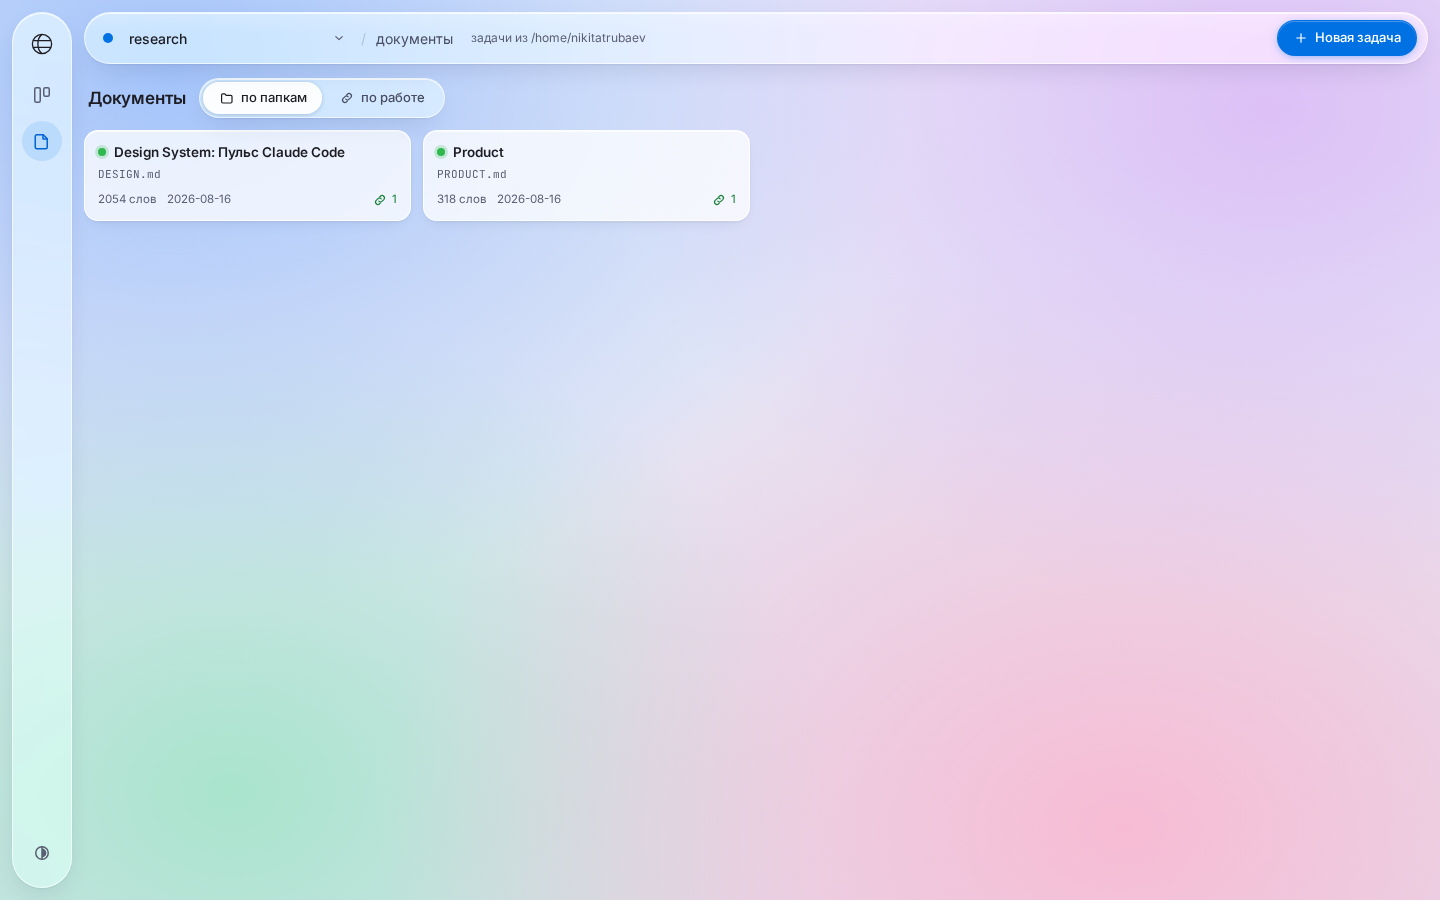
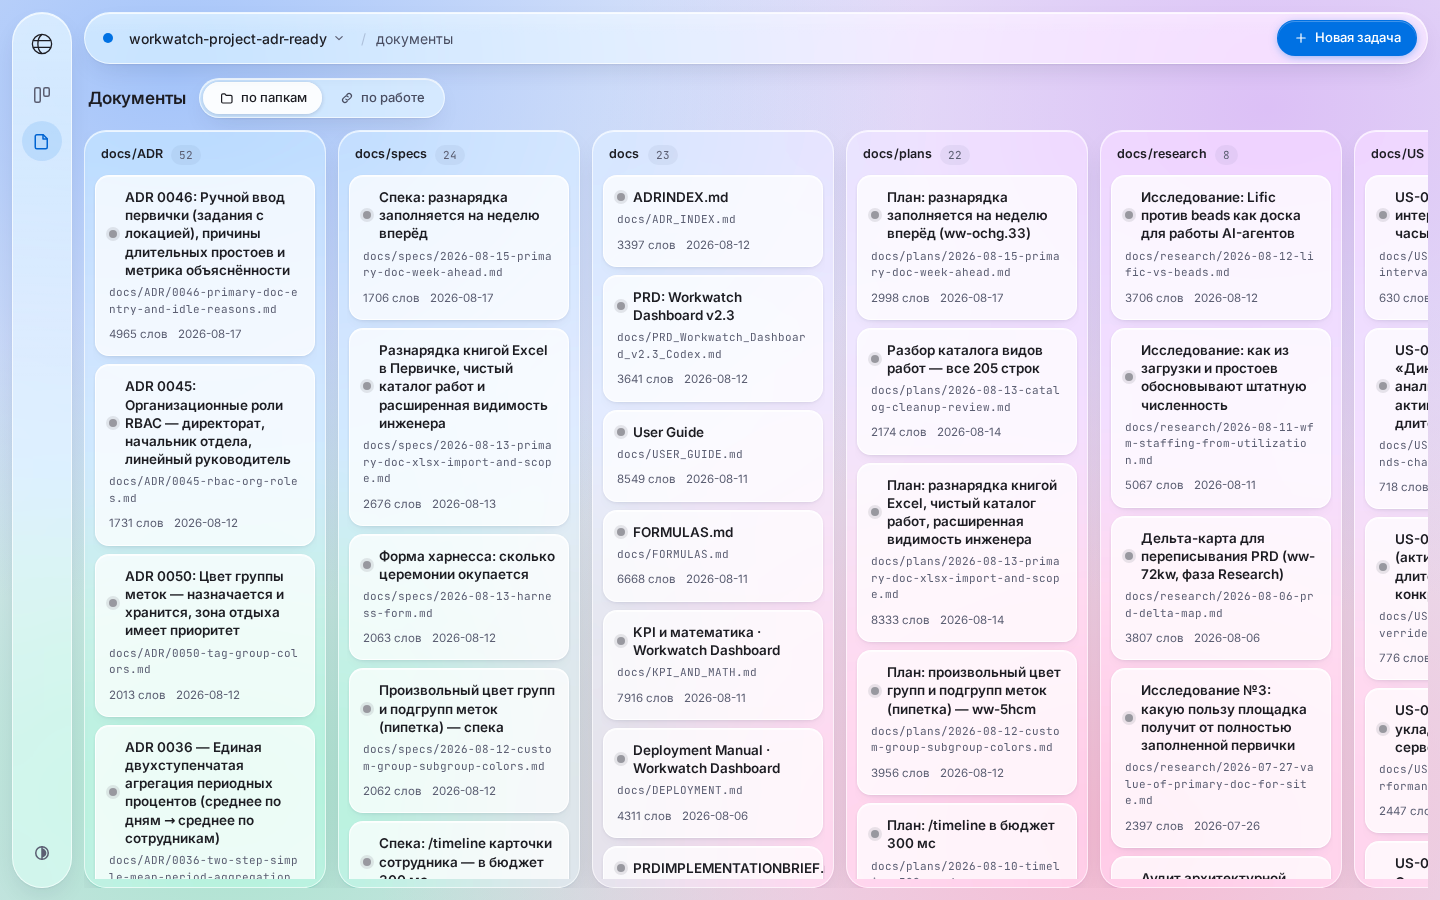
docs: README — скриншот таблицы в обоих языках, документы с богатого проекта

diff --git a/README.md b/README.md
@@ -117,7 +117,11 @@ echo '{"model":{"display_name":"Opus 5"},"context_window":{"used_percentage":10}
 
 Слева — виды работ: все задачи, без эпика, эпики (каждый отдельной строкой), фичи, баги, верификация, прочее. Вид сам по себе является местом назначения: все баги в одном месте, все фичи в одном.
 
-Над доской — переключатель: **доска**, **список**, **граф**. Список — таблица с сортировкой по любой колонке: статус, id, тип, приоритет, эпик, кого ждёт, когда обновлена. Граф — карта связей всего проекта: дерево эпиков с детьми и красные стрелки блокировок поверх, обе связи beads на одном экране.
+Над доской — переключатель: **доска**, **список**, **граф**. Список — таблица с сортировкой по любой колонке: статус, id, тип, приоритет, эпик, кого ждёт, когда обновлена. Строка, как и карточка, открывает задачу.
+
+<img src="https://raw.githubusercontent.com/Roflochinsky/beads-hud/main/assets/table.png" alt="Список: сортируемая таблица задач" width="100%" />
+
+Граф — карта связей всего проекта: дерево эпиков с детьми и красные стрелки блокировок поверх, обе связи beads на одном экране.
 
 <img src="https://raw.githubusercontent.com/Roflochinsky/beads-hud/main/assets/graph.png" alt="Граф: дерево эпиков и стрелки блокировок" width="100%" />
 

diff --git a/README.en.md b/README.en.md
@@ -120,7 +120,11 @@ Clicking a card opens the issue: description, design, and clickable links — wh
 
 The left rail splits work by kind: all issues, no epic, epics (each on its own row), features, bugs, verification, everything else. A kind is itself a destination: every bug in one place, every feature in one.
 
-Above the board sits a view switcher: **board**, **list**, **graph**. The list is a table sortable by any column — status, id, type, priority, epic, what it waits for, when it changed. The graph is a map of the whole project: the epic tree with its children, and red blocker arrows on top — both beads relationships on one screen.
+Above the board sits a view switcher: **board**, **list**, **graph**. The list is a table sortable by any column — status, id, type, priority, epic, what it waits for, when it changed. A row opens the issue, same as a card.
+
+<img src="https://raw.githubusercontent.com/Roflochinsky/beads-hud/main/assets/table.png" alt="List: sortable issue table" width="100%" />
+
+The graph is a map of the whole project: the epic tree with its children, and red blocker arrows on top — both beads relationships on one screen.
 
 <img src="https://raw.githubusercontent.com/Roflochinsky/beads-hud/main/assets/graph.png" alt="Graph: epic tree and blocker arrows" width="100%" />
 
